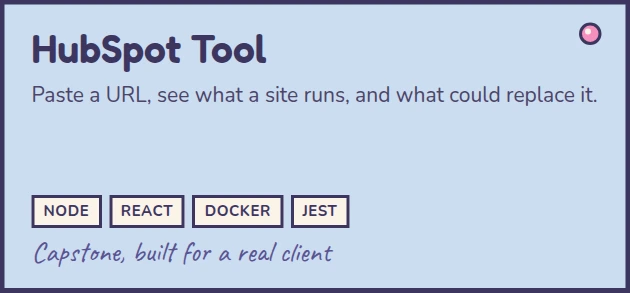
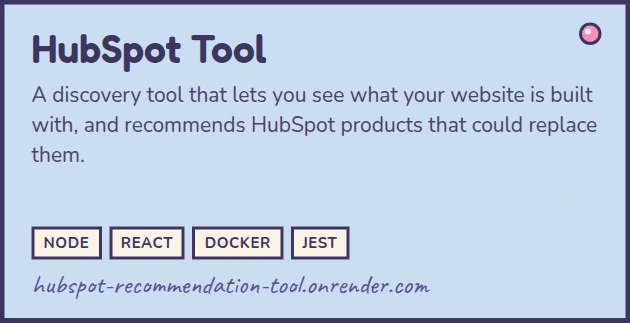
Updated images

diff --git a/README.md b/README.md
@@ -15,9 +15,9 @@ mostly been in the backend and internal tools.
 
 <div align="center">
 
-<a href="https://github.com/noahparknguyen/statmon"><img src="assets/card-statmon.webp" width="272" alt="Statmon. A set of Pokémon tools that can be read as of any generation. React, Vite, Tailwind, Cloudflare. 480 tests, zero runtime requests."></a>
-<a href="https://github.com/noahparknguyen/hubspot-recommendation-tool"><img src="assets/card-hubspot.webp" width="272" alt="HubSpot Tool. Paste a URL, see what a site runs, and what could replace it. Node, React, Docker, Jest. A capstone, built for a real client."></a>
-<a href="https://github.com/noahparknguyen/portfolio"><img src="assets/card-portfolio.webp" width="272" alt="Portfolio. My personal site, a bulletin board of pinned paper and live widgets. React, Vite, Tailwind, Cloudflare. Live at noahpn.dev."></a>
+<a href="https://github.com/noahparknguyen/statmon"><img src="assets/card-statmon.webp" width="272" alt="Statmon. A simple set of Pokémon tools. Compare stats, view type matchups, and play games. Built with React, Vite, Tailwind and Cloudflare. Live at statmon.noahparknguyen.workers.dev"></a>
+<a href="https://github.com/noahparknguyen/hubspot-recommendation-tool"><img src="assets/card-hubspot.webp" width="272" alt="HubSpot Tool. A discovery tool that lets you see what your website is built with, and recommends HubSpot products that could replace them. Built with Node, React, Docker and Jest. Live at hubspot-recommendation-tool.onrender.com"></a>
+<a href="https://github.com/noahparknguyen/portfolio"><img src="assets/card-portfolio.webp" width="272" alt="Portfolio. My personal website, a bulletin board where I show off both my professional work and hobbies. Built with React, Vite, Tailwind and Cloudflare. Live at noahpn.dev"></a>
 
 <br><br>
 
@@ -31,9 +31,6 @@ mostly been in the backend and internal tools.
 
 <br><br>
 
-Everything else is over at **[noahpn.dev](https://noahpn.dev)**.
-But only if you want to, no pressure.
-
-<img width="90" alt="" src="https://github.com/user-attachments/assets/aa03a572-e830-4382-a128-eb70992d8054">
+<img src="vendor/hk-the-hollow-knight-and-knight.webp" width="130" alt="">
 
 </div>

diff --git a/CREDITS.md b/CREDITS.md
@@ -11,8 +11,8 @@ few things, and they are credited here for the same reason the site's
   CC0 1.0. Fetched at render time and baked into the WebP, so the published
   image has no runtime dependency on the service. Each mark remains the
   trademark of its respective owner.
-- **Hollow Knight cameo** — Team Cherry. Used decoratively, and it is not
-  covered by this repo's licence.
+- **Hollow Knight cameo** (`vendor/hk-the-hollow-knight-and-knight.webp`) —
+  Team Cherry. Used decoratively, and it is not covered by this repo's licence.
 
 ## Fonts
 
